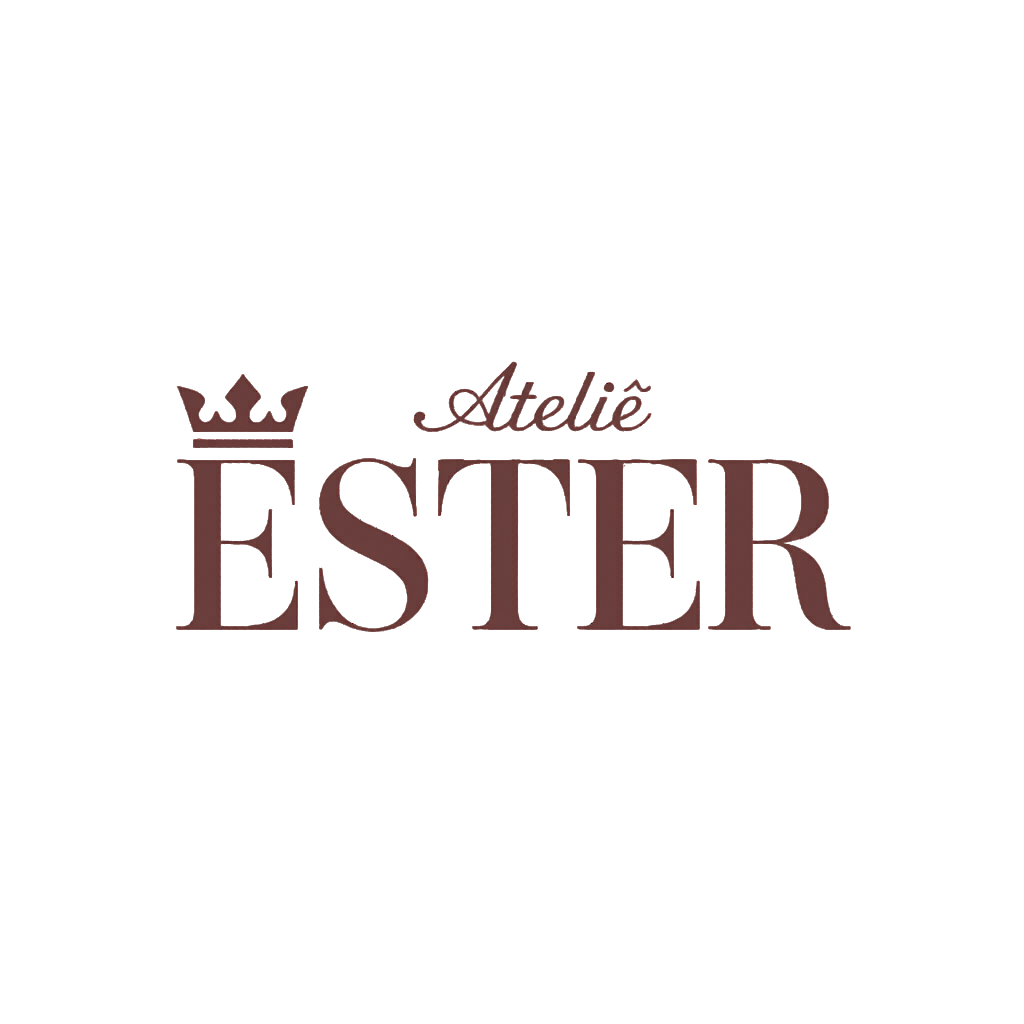
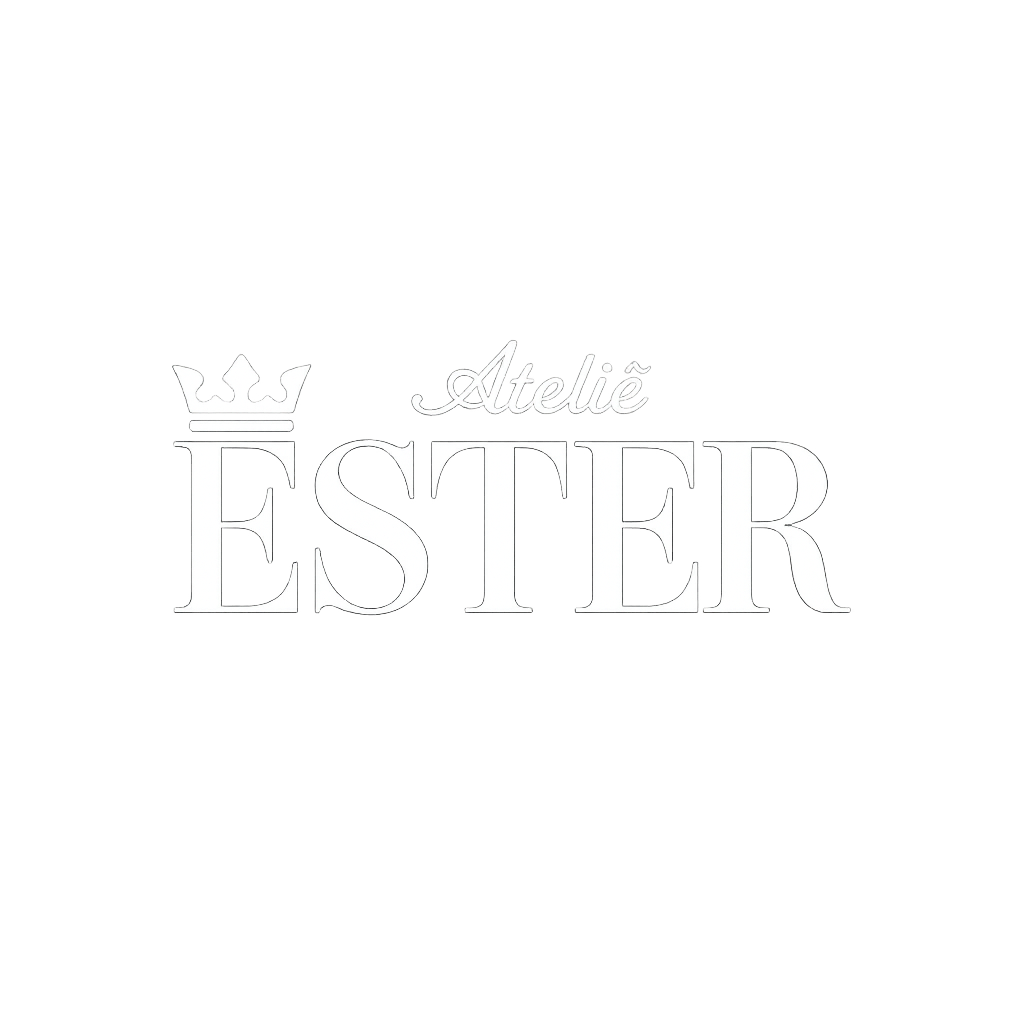
fix foto sobre

Changed region(s): [[0.1562, 0.3438, 0.8438, 0.625]]

diff --git a/src/data/products.js b/src/data/products.js
@@ -6,7 +6,7 @@ export const products = [
   subtitle: "2 Peças",
   desc: "100% Viscose · Calça pantalona",
   price: "R$ 179,90",
-  image: "public/images/conjuntovalentina.jpg",
+  image: "./images/conjuntovalentina.jpg",
   tag: "Mais vendido",
   },
   {
@@ -15,7 +15,7 @@ export const products = [
     subtitle: "3 peças",
     desc: "Elástico na cintura · Tecido leve e fresco",
     price: "R$ 199,90",
-    image: "public/images/conjuntodelhiad.jpg",
+    image: "./images/conjuntodelhiad.jpg",
     tag: "Cardigan + Regata + Pantalona",
   },
   {
@@ -24,7 +24,7 @@ export const products = [
     subtitle: "Caimento Leve",
     desc: "Viscose · Evasê fluida",
     price: "R$ 89,90",
-    image: "public/images/saiasara.jpg",
+    image: "./images/saiasara.jpg",
   },
   {
     id: 4,
@@ -32,7 +32,7 @@ export const products = [
     subtitle: "Muitas possibilidades de uso",
     desc: "Viscose · Alças de nó",
     price: "R$ 119,90",
-    image: "public/images/macacaoana.jpg",
+    image: "./images/macacaoana.jpg",
     tag: "Favorito das clientes",
   },
   {
@@ -41,7 +41,7 @@ export const products = [
     subtitle: "Básica, mas cheia de charme",
     desc: "Viscose · Fendas laterais",
     price: "R$ 99,90",
-    image: "public/images/chemisemartha.jpg",
+    image: "./images/chemisemartha.jpg",
   },
   {
     id: 6,
@@ -49,7 +49,7 @@ export const products = [
     subtitle: "Despojada e elegante",
     desc: "Botões frontais · Manga 3/4",
     price: "R$ 89,90",
-    image: "public/images/chemisemidi.jpg",
+    image: "./images/chemisemidi.jpg",
   },
 
    {
@@ -58,7 +58,7 @@ export const products = [
     subtitle: "Mensagem de fé que inspira",
     desc: "Camiseta estampada · Modelagem clássica",
     price: "R$ 49,90",
-    image: "public/images/camisetadeusebomm.jpg",
+    image: "./images/camisetadeusebomm.jpg",
   },
   {
     id: 8,
@@ -66,7 +66,7 @@ export const products = [
     subtitle: "Fé com estilo",
     desc: "Camiseta estampada · Modelagem clássica",
     price: "R$ 49,90",
-    image: "public/images/camisetasojesus.jpg",
+    image: "./images/camisetasojesus.jpg",
     tag: "TOP VENDAS",
   },
    {
@@ -75,7 +75,7 @@ export const products = [
     subtitle: "Indispensável no guarda-roupa",
     desc: "Algodão · Atemporal",
     price: "R$ 49,90",
-    image: "public/images/camisetalisa.jpg",
+    image: "./images/camisetalisa.jpg",
   },
   {
     id: 10,
@@ -83,7 +83,7 @@ export const products = [
     subtitle: "Básica, mas cheia de charme",
     desc: "Camiseta estampada · Modelagem clássica",
     price: "R$ 49,90",
-    image: "public/images/camisetaparadeus.jpg",
+    image: "./images/camisetaparadeus.jpg",
   },
    {
     id: 11,
@@ -91,7 +91,7 @@ export const products = [
     subtitle: "Um look completo, zero esforço",
     desc: "Conjunto de 2 peças · Tecido leve e confortável",
     price: "R$ 199,90",
-    image: "public/images/conjuntokatia.jpg",
+    image: "./images/conjuntokatia.jpg",
   },
     {
     id: 12,
@@ -99,7 +99,7 @@ export const products = [
     subtitle: "Fluida e elegante",
     desc: "Viscose · Cós com elástico",
     price: "R$ 79,90",
-    image: "public/images/calcapantalona.jpg",
+    image: "./images/calcapantalona.jpg",
   },
     {
     id: 13,
@@ -107,7 +107,7 @@ export const products = [
     subtitle: "Do dia a dia ao trabalho",
     desc: "Alta qualidade · Modelagem moderna",
     price: "R$ 89,90",
-    image: "public/images/calcasisi.jpg",
+    image: "./images/calcasisi.jpg",
   },
     {
     id: 14,
@@ -115,7 +115,7 @@ export const products = [
     subtitle: "Perfeita para dias mais frios",
     desc: "Tecido macio e confortável",
     price: "R$ 59,90",
-    image: "public/images/cacharrel.jpg",
+    image: "./images/cacharrel.jpg",
   },
   {
     id: 15,
@@ -123,6 +123,6 @@ export const products = [
     subtitle: "Peça curinga para o verão",
     desc: "Modelagem elegante · Qualidade premium",
     price: "R$ 45,90",
-    image: "public/images/regatalara.jpg",
+    image: "./images/regatalara.jpg",
   },
 ];

diff --git a/index.html b/index.html
@@ -3,7 +3,7 @@
 
 <head>
   <meta charset="UTF-8" />
-  <link rel="icon" href="/favicon.png"/>
+  <link rel="icon" href="src/assets/favicon.png" />
   <meta name="viewport" content="width=device-width, initial-scale=1.0" />
 
   <title>Ateliê Ester</title>

diff --git a/src/components/Sobre.jsx b/src/components/Sobre.jsx
@@ -37,7 +37,7 @@ export default function Sobre() {
           {/* IMAGEM */}
           <div className="about__image">
             <img
-              src="/images/atelier.png"
+              src="./images/atelier.png"
               alt="Ateliê Ester"
             />
           </div>